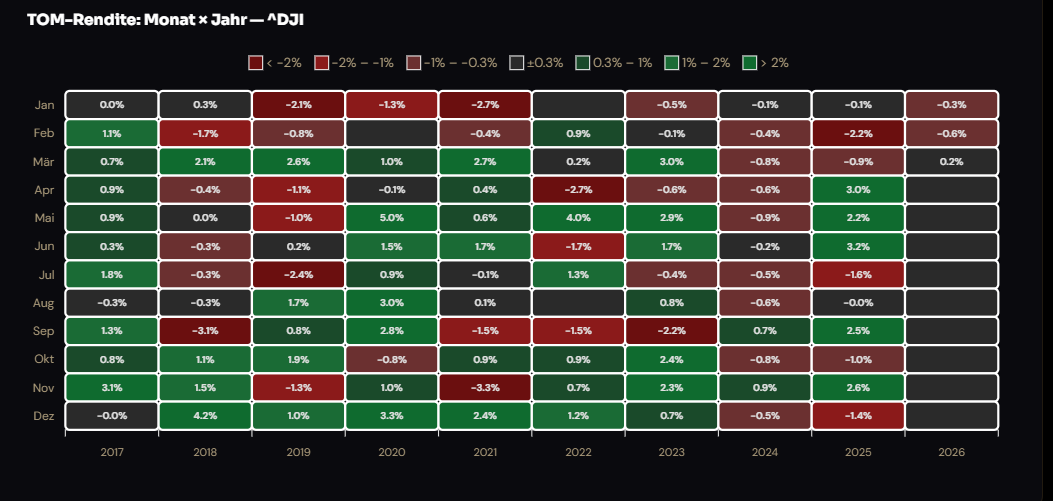
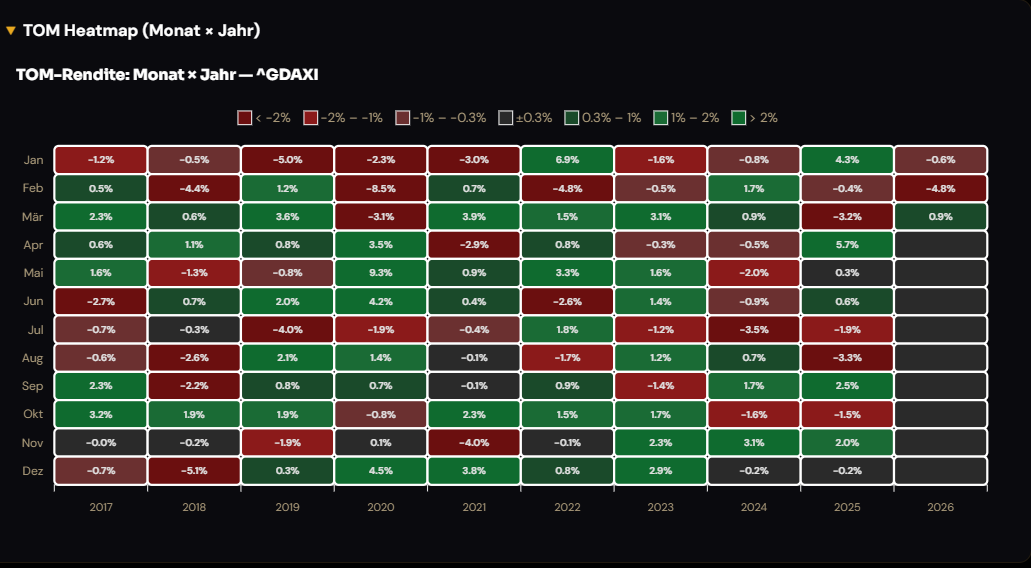
seo(blog): Keywords auf 10-12 Tags erweitert + VIXpiration Bild-Pfad Fix
17 Posts: Tags von 4-7 auf 10-12 erweitert mit Long-Tail und LSI Keywords.
7 Posts: fehlenden seo_title ergänzt. Descriptions verbessert (140-155 Chars).
VIXpiration-Post: Doppeltes images/images/ im Bild-Pfad gefixt
(Markdown darf nur Dateiname ohne images/ Prefix enthalten,
blog_builder fügt /blog/{slug}/images/ automatisch hinzu).

diff --git a/blog/posts/2026-03-28_wochentag-signifikanztest-siemens.md b/blog/posts/2026-03-28_wochentag-signifikanztest-siemens.md
@@ -1,10 +1,11 @@
 ---
 title: "Ist der Dienstag wirklich der beste Börsentag? Statistik trifft Praxis"
+seo_title: "Wochentag-Signifikanztest Siemens: t-Test einfach erklaert"
 slug: wochentag-signifikanztest-siemens
 date: 2026-03-28
 category: tutorials
-tags: [signifikanz, wochentage, t-test, p-wert, siemens, statistik, tutorial]
-description: "Welcher Wochentag bringt bei Siemens die höchste Rendite? Wir erklären statistische Signifikanztests einfach und zeigen, wie du sie in SeasonAlpha nutzt."
+tags: [signifikanz, wochentage, t-test, p-wert, siemens, statistik, tutorial, montag-effekt, dienstag-boerse, statistischer-test, dax-aktie]
+description: "Welcher Wochentag bringt bei Siemens die hoechste Rendite? Wir erklaeren t-Test und p-Wert einfach und zeigen, ob der Effekt statistisch belastbar ist."
 ticker: SIE.DE
 screenshot: wochentag-signifikanz-siemens.png
 status: published

diff --git a/blog/posts/2026-03-30_outlier-filter-saisonalitaet.md b/blog/posts/2026-03-30_outlier-filter-saisonalitaet.md
@@ -1,10 +1,11 @@
 ---
 title: "Outlier-Filter: Warum Crash-Jahre deine Analyse verzerren"
+seo_title: "Outlier-Filter: Crash-Jahre aus Saisonalitaet filtern"
 slug: outlier-filter-saisonalitaet
 date: 2026-03-30
 category: tutorials
-tags: [outlier, ausreisser, saisonalitaet, iqr, winsorize, isolation-forest, statistik, tutorial]
-description: "Crash-Jahre wie 2008 oder 2020 verzerren saisonale Muster. Der Outlier-Filter in SeasonAlpha zeigt dir, wie die Börse ohne Extremjahre wirklich tickt."
+tags: [outlier, ausreisser, saisonalitaet, iqr, winsorize, isolation-forest, statistik, tutorial, datenbereinigung, robuste-statistik, iqr-methode]
+description: "Crash-Jahre wie 2008 oder 2020 verzerren saisonale Muster. Der Outlier-Filter (IQR, Winsorize, Isolation Forest) zeigt die Boerse ohne Extremjahre."
 ticker: ^GSPC
 status: published
 ---

diff --git a/blog/posts/2026-03-27_willkommen-bei-seasonalpha.md b/blog/posts/2026-03-27_willkommen-bei-seasonalpha.md
@@ -1,10 +1,11 @@
 ---
 title: "Willkommen bei SeasonAlpha.ai — Dein unfairer Vorteil an der Börse"
+seo_title: "SeasonAlpha.ai: KI-gestuetzte saisonale Marktanalyse"
 slug: willkommen-bei-seasonalpha.ai
 date: 2026-03-27
 category: education
-tags: [seasonalpha, launch, saisonalität, plattform, vorstellung, ai, ki]
-description: "SeasonAlpha.ai ist live! Entdecke die Plattform für datenbasierte saisonale Marktanalyse — mit bis zu 130 Jahren Historie, KI-Modellen und interaktiven Charts."
+tags: [seasonalpha, launch, saisonalitaet, plattform, vorstellung, ai, ki, finanzdaten, machine-learning, anomalie-erkennung, chartanalyse]
+description: "SeasonAlpha.ai ist live! Entdecke die Plattform fuer datenbasierte saisonale Marktanalyse — mit 130 Jahren Historie, KI-Modellen und interaktiven Charts."
 ticker: ^DJI
 status: published
 ---

diff --git a/blog/posts/2026-03-28_overnight-intraday-split-google.md b/blog/posts/2026-03-28_overnight-intraday-split-google.md
@@ -1,10 +1,11 @@
 ---
 title: "Wann verdienst Du mit Google wirklich Geld — nachts oder tagsüber?"
+seo_title: "Google Overnight vs Intraday: Wann entsteht die Rendite?"
 slug: overnight-intraday-split-google
 date: 2026-03-28
 category: tutorials
-tags: [overnight, intraday, wochentage, google, googl, split, rendite, tutorial]
-description: "Overnight vs. Intraday Split erklärt: Wann entsteht die Rendite bei Google? Analyse nach Wochentagen mit SeasonAlpha."
+tags: [overnight, intraday, wochentage, google, googl, split, rendite, tutorial, daytrading, buy-and-hold, marktdynamik]
+description: "Overnight vs. Intraday Split bei Google erklaert: Wann entsteht die Rendite — nachts oder tagsueber? Wochentag-Analyse mit SeasonAlpha zeigt klare Muster."
 ticker: GOOGL
 screenshot: overnight-intraday-split-googl.png
 status: published

diff --git a/blog/posts/2026-04-08_anomalie-radar-erklaert.md b/blog/posts/2026-04-08_anomalie-radar-erklaert.md
@@ -4,8 +4,8 @@ seo_title: "Anomalie-Radar SeasonAlpha: Z-Score + Perzentil richtig lesen"
 slug: anomalie-radar-erklaert
 date: 2026-04-08
 category: education
-tags: [anomalie-radar, ki-score, perzentil, z-score, sap, education]
-description: "Der SeasonAlpha Anomalie-Radar zeigt für SAP Score 24/100 (Normal) — obwohl der Kurs visuell 28 % unter dem saisonalen Schnitt liegt. Wie das zusammenpasst und warum genau das die richtige Antwort ist."
+tags: [anomalie-radar, ki-score, perzentil, z-score, sap, education, statistische-anomalie, ki-analyse, abweichung, saisonalitaet]
+description: "Der Anomalie-Radar zeigt fuer SAP Score 24/100 (Normal) — obwohl der Kurs 28 % unter dem Schnitt liegt. Warum Z-Score und Perzentil das richtig bewerten."
 ticker: SAP
 screenshot: anomalie-radar-sap-beispiel.png
 status: published

diff --git a/blog/posts/2026-03-27_was-ist-saisonalitaet.md b/blog/posts/2026-03-27_was-ist-saisonalitaet.md
@@ -1,10 +1,11 @@
 ---
 title: "Was ist Saisonalitaet? Ein Leitfaden fuer Trader und Anleger"
+seo_title: "Was ist Saisonalitaet? Boersenmuster erklaert (130 Jahre)"
 slug: was-ist-saisonalitaet
 date: 2026-03-27
 category: education
-tags: [saisonalitaet, grundlagen, statistik, trading]
-description: "Saisonalitaet erklaert: Warum sich Boersenmuster wiederholen und wie Trader davon profitieren. Datenbasierte Analyse mit 130 Jahren Historie."
+tags: [saisonalitaet, grundlagen, statistik, trading, boersenkalender, window-dressing, tax-loss-selling, monatseffekte, quartalseffekte, wiederkehrende-muster]
+description: "Saisonalitaet an der Boerse erklaert: Warum sich Muster wie Sell in May oder der Januar-Effekt wiederholen — mit 130 Jahren Daten und konkreten Beispielen."
 ticker: ^DJI
 status: published
 ---

diff --git a/blog/posts/2026-04-08_sell-in-may-2026.md b/blog/posts/2026-04-08_sell-in-may-2026.md
@@ -4,8 +4,8 @@ seo_title: "Sell in May 2026: Funktioniert die Strategie noch? 130 Jahre Daten"
 slug: sell-in-may-2026
 date: 2026-04-08
 category: marktausblick
-tags: [sell-in-may, saisonalitaet, sp500, mai, halloween-strategie]
-description: "Sell in May 2026: Funktioniert die berühmteste Saisonalitäts-Strategie noch? 130 Jahre S&P 500 Daten zeigen ein klares — aber differenziertes — Bild."
+tags: [sell-in-may, saisonalitaet, sp500, mai, halloween-strategie, best-six-months, worst-six-months, september-effekt, defensiv-rotation, sommer-schwaeche]
+description: "Sell in May 2026: Funktioniert die beruehmteste Saisonalitaets-Strategie noch? 130 Jahre S&P 500 zeigen ein klares — aber differenziertes — Bild."
 ticker: ^GSPC
 screenshot: sell-in-may-2026-jahresverlauf.png
 status: published

diff --git a/blog/posts/2026-04-08_dashboard-launch.md b/blog/posts/2026-04-08_dashboard-launch.md
@@ -4,8 +4,8 @@ seo_title: "SeasonAlpha Dashboard: Saisonalität, KI-Score und Strategien für j
 slug: dashboard-launch
 date: 2026-04-08
 category: tutorials
-tags: [dashboard, ki-score, crash-ampel, saisonalitaet, strategien, neu]
-description: "Das neue SeasonAlpha Dashboard zeigt für jeden Ticker KI-Score, Crash-Ampel, Saisonalität, Risiko, Top-Strategien und nächste Events auf einer einzigen Seite. So nutzt du es."
+tags: [dashboard, ki-score, crash-ampel, saisonalitaet, strategien, neu, echtzeit-analyse, backtest-engine, renditeanalyse, watchlist]
+description: "Das neue SeasonAlpha Dashboard: KI-Score, Crash-Ampel, Saisonalitaet, Risiko, Strategien und Events fuer jeden Ticker auf einer Seite — so nutzt du es."
 ticker: ^GSPC
 screenshot: dashboard-hero.png
 status: published

diff --git a/blog/posts/2026-04-11_praesidentenzyklus-tutorial.md b/blog/posts/2026-04-11_praesidentenzyklus-tutorial.md
@@ -4,8 +4,8 @@ seo_title: "Präsidentenzyklus Tutorial: 4-Jahres-Zyklus an der Börse nutzen"
 slug: praesidentenzyklus-tutorial
 date: 2026-04-11
 category: tutorials
-tags: [praesidentenzyklus, election-cycle, tutorial, dow-jones, midterm, sp500]
-description: "Schritt-für-Schritt Tutorial: Wie der US-Präsidentenzyklus die Börse beeinflusst und wie du das Muster mit SeasonAlpha selbst auswerten kannst."
+tags: [praesidentenzyklus, election-cycle, tutorial, dow-jones, midterm, sp500, election-year, pre-election-rally, four-year-cycle, politische-zyklen]
+description: "Schritt-fuer-Schritt Tutorial: Wie der US-Praesidentenzyklus die Boerse beeinflusst — mit 130 Jahren Daten und SeasonAlpha-Auswertung."
 ticker: ^DJI
 screenshot: praesidentenzyklus-4-cycles.png
 status: published

diff --git a/blog/posts/2026-04-09_turn-of-month-effekt-erklaert.md b/blog/posts/2026-04-09_turn-of-month-effekt-erklaert.md
@@ -4,8 +4,8 @@ seo_title: "Turn-of-Month Effekt: Warum Monatswechsel an der Börse besonders si
 slug: turn-of-month-effekt-erklaert
 date: 2026-04-09
 category: education
-tags: [turn-of-month, tom, saisonalitaet, education, sp500]
-description: "Der Turn-of-Month Effekt: Warum die letzten 3 und ersten 3 Handelstage eines Monats statistisch deutlich besser laufen als der Rest. Mit Daten und Erklärung."
+tags: [turn-of-month, tom, saisonalitaet, education, sp500, pension-fund-effekt, monatsultimo, liquidity-zyklus, intramonth, window-dressing]
+description: "Der Turn-of-Month Effekt: Warum die letzten 3 und ersten 3 Handelstage statistisch besser laufen — mit 30 Jahren S&P 500 Daten und Erklaerung."
 ticker: ^GSPC
 screenshot: turn-of-month-tom-chart.png
 status: published

diff --git a/blog/posts/2026-03-27_april-saisonalitaet-sp500.md b/blog/posts/2026-03-27_april-saisonalitaet-sp500.md
@@ -1,10 +1,11 @@
 ---
 title: "April 2026: Was sagt die Saisonalitaet fuer den S&P 500?"
+seo_title: "S&P 500 April Saisonalitaet 2026: Historische Analyse"
 slug: april-saisonalitaet-sp500-2026
 date: 2026-03-27
 category: marktausblick
-tags: [sp500, april, saisonalitaet, marktausblick, 2026]
-description: "Saisonaler Ausblick April 2026 fuer den S&P 500. Historische Win-Rate, Durchschnittsrendite und was Trader beachten sollten."
+tags: [sp500, april, saisonalitaet, marktausblick, 2026, dow-jones, april-performance, saisonale-muster, rendite, mehrjahresanalyse]
+description: "Saisonaler Ausblick April 2026 fuer den S&P 500: Historische Win-Rate, Durchschnittsrendite und Praesidentenzyklus-Einfluss — 20 Jahre Daten im Check."
 ticker: ^GSPC
 status: published
 ---

diff --git a/blog/posts/2026-03-31_monatswechsel-dax-maerz-april.md b/blog/posts/2026-03-31_monatswechsel-dax-maerz-april.md
@@ -4,8 +4,8 @@ seo_title: "DAX Monatswechsel März April 2026 – Saisonale Analyse"
 slug: monatswechsel-dax-maerz-april-2026
 date: 2026-03-31
 category: marktausblick
-tags: [dax, monatswechsel, turn-of-month, april, saisonalitaet, 2026]
-description: "Der Monatswechsel März → April zeigt im DAX eine Win-Rate von 75 % bei +1,37 % Rendite. Statistische Analyse mit Signifikanztest."
+tags: [dax, monatswechsel, turn-of-month, april, saisonalitaet, 2026, monatsultimo, dax-performance, maerz-april, pension-fund]
+description: "Der Monatswechsel Maerz zu April zeigt im DAX eine Win-Rate von 75 % bei +1,37 % Rendite. Statistische Analyse mit Signifikanztest und 20 Jahren Daten."
 ticker: ^GDAXI
 screenshot: monatswechsel-dax-maerz-april.png
 status: published
